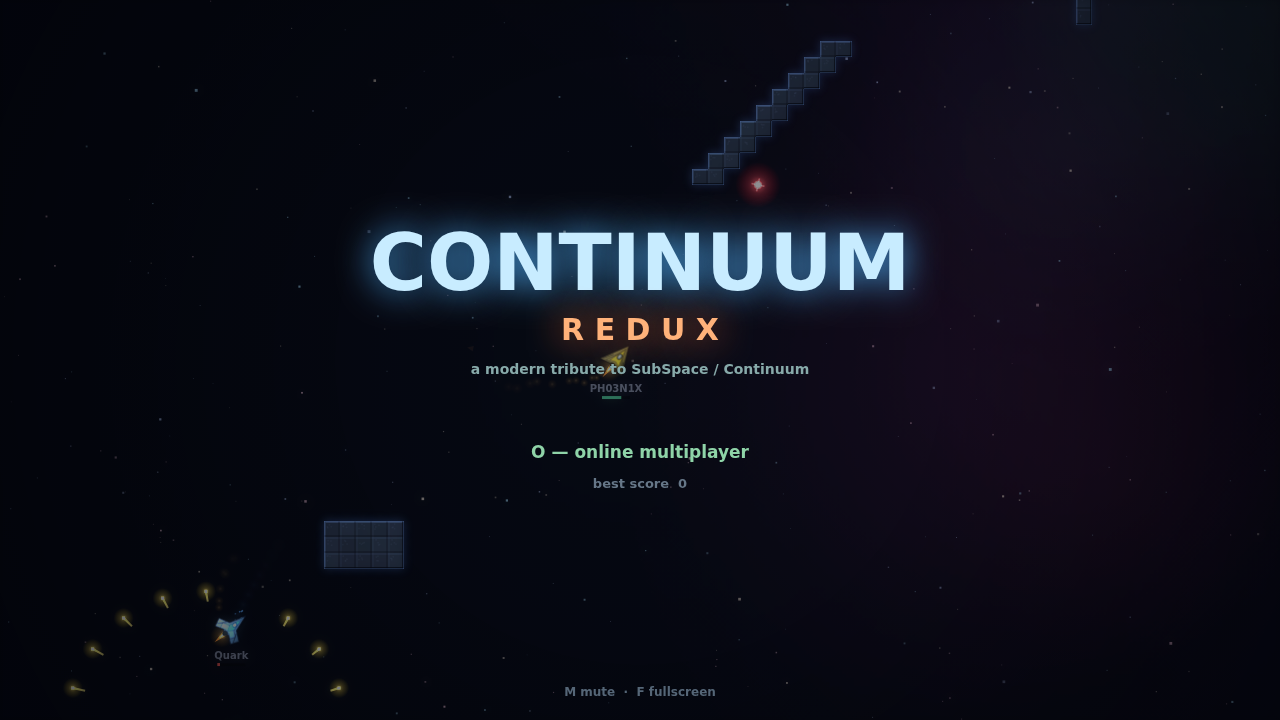
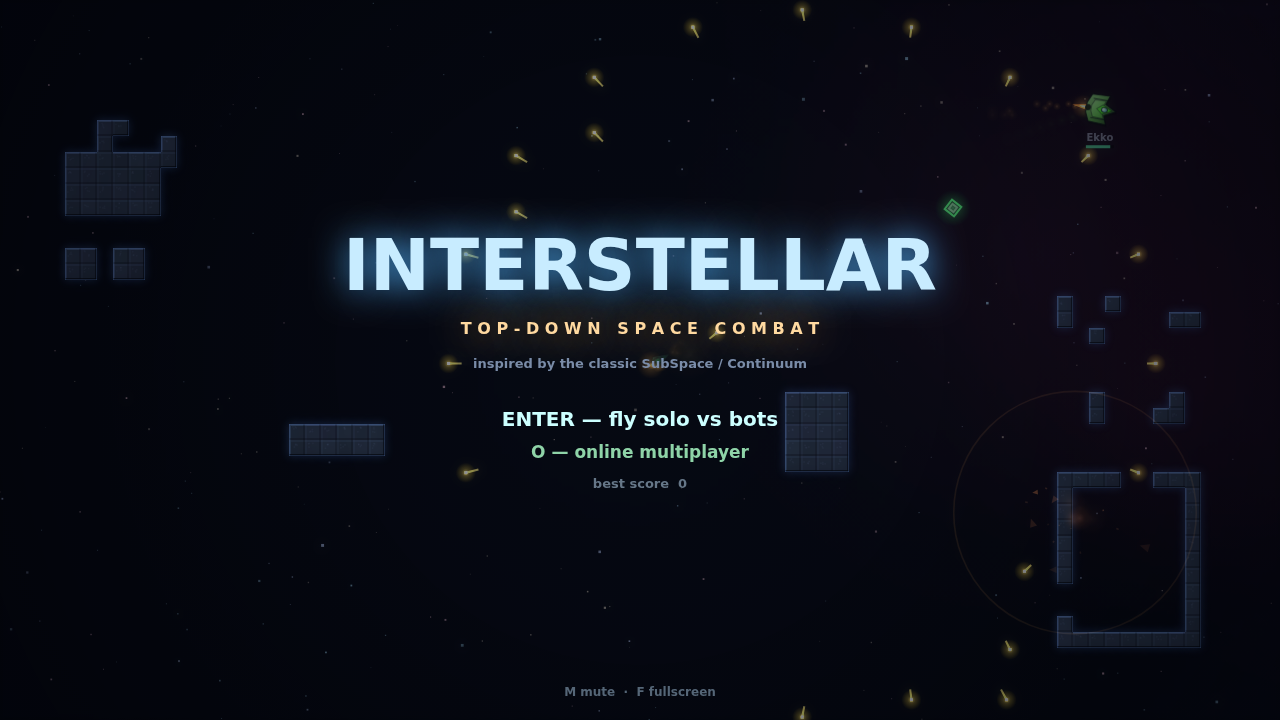
Rename the game to Interstellar
The game is now its own title: Interstellar. SubSpace/Continuum stays
credited as the inspiration on the title screen and in the README, but
the branding, page title, welcome text, server log lines, localStorage
keys, and test hooks all carry the new name. The new-generation ship
class is renamed from REDUX to NOVA to match, since it referenced the
old title.

Claude-Session: https://claude.ai/code/session_01B8hcSvZjcaomtossQcuxbY

diff --git a/client.js b/client.js
@@ -1,5 +1,5 @@
 /* =========================================================================
-   CONTINUUM REDUX — browser client
+   INTERSTELLAR — browser client
    Rendering (neon + bloom), input, menus, audio, and SubSpace-style
    relay netcode. All world simulation lives in sim.js (shared with the
    server); this file owns everything the player sees and hears.
@@ -1198,11 +1198,11 @@
     ctx.save();
     ctx.shadowColor = 'rgba(80,180,255,0.9)';
     ctx.shadowBlur = 34;
-    txt('CONTINUUM', vw / 2, vh / 2 - 70, 78, '#c8ecff', 'center', 800);
-    ctx.shadowColor = 'rgba(255,120,60,0.9)';
-    txt('R E D U X', vw / 2, vh / 2 - 20, 30, '#ffb27a', 'center', 700);
+    txt('INTERSTELLAR', vw / 2, vh / 2 - 70, 72, '#c8ecff', 'center', 800);
+    ctx.shadowColor = 'rgba(255,180,80,0.8)';
+    txt('T O P - D O W N   S P A C E   C O M B A T', vw / 2, vh / 2 - 26, 16, '#ffd9a0', 'center', 700);
     ctx.restore();
-    txt('a modern tribute to SubSpace / Continuum', vw / 2, vh / 2 + 14, 14, '#8aa', 'center');
+    txt('inspired by the classic SubSpace / Continuum', vw / 2, vh / 2 + 8, 13, '#7a8ca8', 'center');
     const blink = Math.sin(G.time * 4) > -0.3;
     if (blink) txt('ENTER — fly solo vs bots', vw / 2, vh / 2 + 66, 20, '#cff', 'center', 700);
     txt('O — online multiplayer', vw / 2, vh / 2 + 98, 17, '#8fd4a8', 'center', 700);
@@ -1249,9 +1249,9 @@
     }
 
     const t = SHIP_TYPES[SHIP_ORDER[G.sel]];
-    const isRedux = t.cls === 'redux';
-    txt(isRedux ? 'REDUX CLASS — NEW GENERATION' : 'CLASSIC HULL', vw / 2, cy + 88, 11,
-      isRedux ? '#fd8' : '#68a', 'center', 700);
+    const isNova = t.cls === 'nova';
+    txt(isNova ? 'NOVA CLASS — NEW GENERATION' : 'CLASSIC HULL', vw / 2, cy + 88, 11,
+      isNova ? '#fd8' : '#68a', 'center', 700);
     txt(t.label.toUpperCase(), vw / 2, cy + 116, 30, 'hsla(' + t.hue + ',90%,68%,1)', 'center', 800);
     txt((G.sel + 1) + ' / ' + n, vw / 2, cy + 136, 12, '#678', 'center');
     txt(t.desc, vw / 2, cy + 160, 14, '#abc', 'center', 500);
@@ -1340,16 +1340,16 @@
 
   // ---------------------------------------------------------------- persistence
   function loadBest() {
-    try { G.best = parseInt(GLOBAL.localStorage.getItem('continuum-redux-best') || '0', 10) || 0; } catch (e) { G.best = 0; }
+    try { G.best = parseInt(GLOBAL.localStorage.getItem('interstellar-best') || '0', 10) || 0; } catch (e) { G.best = 0; }
   }
   function saveBest() {
-    try { GLOBAL.localStorage.setItem('continuum-redux-best', String(G.best)); } catch (e) { }
+    try { GLOBAL.localStorage.setItem('interstellar-best', String(G.best)); } catch (e) { }
   }
   function loadName() {
-    try { return GLOBAL.localStorage.getItem('continuum-redux-name') || ''; } catch (e) { return ''; }
+    try { return GLOBAL.localStorage.getItem('interstellar-name') || ''; } catch (e) { return ''; }
   }
   function saveName(n) {
-    try { GLOBAL.localStorage.setItem('continuum-redux-name', n); } catch (e) { }
+    try { GLOBAL.localStorage.setItem('interstellar-name', n); } catch (e) { }
   }
 
   // ---------------------------------------------------------------- flow
@@ -1363,7 +1363,7 @@
     G.player = s;
     G.state = 'play';
     G.paused = false;
-    say('Welcome to Continuum Redux — good luck, pilot.', '#8df');
+    say('Welcome to Interstellar — good luck, pilot.', '#8df');
     say('Collect greens. Guard your energy. Everything costs it.', '#8df');
     return s;
   }
@@ -1541,7 +1541,7 @@
     GLOBAL.requestAnimationFrame(frame);
   }
 
-  GLOBAL.__continuum = { G, SIM, boot, startSolo, update, render, keys, handleNet, netConnect, STEP };
+  GLOBAL.__interstellar = { G, SIM, boot, startSolo, update, render, keys, handleNet, netConnect, STEP };
 
   if (GLOBAL.document && GLOBAL.document.getElementById) boot();
 })();

diff --git a/sim.js b/sim.js
@@ -1,5 +1,5 @@
 /* =========================================================================
-   CONTINUUM REDUX — shared simulation core
+   INTERSTELLAR — shared simulation core
    Runs identically in the browser (window.SIM) and Node (module.exports).
    No DOM, no audio, no rendering — pure world state + events.
 
@@ -143,10 +143,10 @@
       deco: [[[0.15, 0.38], [-0.4, 0.75]], [[0.15, -0.38], [-0.4, -0.75]]],
       cockpit: [0.3, 0, 0.17, 0.12], engines: [[-0.68, 0]],
     },
-    // ---- REDUX class: the new generation ----
+    // ---- NOVA class: the new generation ----
     vanguard: {
-      label: 'Vanguard', hue: 45, cls: 'redux',
-      desc: 'REDUX gunship. Ships MultiFire and ricochet rounds straight from the factory.',
+      label: 'Vanguard', hue: 45, cls: 'nova',
+      desc: 'Nova-class gunship. Ships MultiFire and ricochet rounds straight from the factory.',
       maxEnergy: 1450, recharge: 110, thrust: 240, maxSpeed: 345, turn: 3.5,
       radius: 11, bounce: 0.6, startMulti: true, startBounce: true,
       gunLevel: 2, gunDelay: 0.4, gunCost: 130, gunSpeed: 640, gunDmgMul: 0.95,
@@ -157,8 +157,8 @@
       cockpit: [0.35, 0, 0.18, 0.11], engines: [[-0.75, 0.18], [-0.75, -0.18]],
     },
     aegis: {
-      label: 'Aegis', hue: 215, cls: 'redux',
-      desc: 'REDUX bastion. Composite plating shrugs off a quarter of all damage.',
+      label: 'Aegis', hue: 215, cls: 'nova',
+      desc: 'Nova-class bastion. Composite plating shrugs off a quarter of all damage.',
       maxEnergy: 1900, recharge: 100, thrust: 190, maxSpeed: 300, turn: 2.8,
       radius: 13, bounce: 0.45, armor: 0.72, repelStart: 2,
       gunLevel: 1, gunDelay: 0.5, gunCost: 120, gunSpeed: 600, gunDmgMul: 0.9,
@@ -169,8 +169,8 @@
       cockpit: [0.2, 0, 0.22, 0.17], engines: [[-0.85, 0.3], [-0.85, -0.3]],
     },
     reaper: {
-      label: 'Reaper', hue: 275, cls: 'redux',
-      desc: 'REDUX leech. Every hit you land feeds stolen energy back to your banks.',
+      label: 'Reaper', hue: 275, cls: 'nova',
+      desc: 'Nova-class leech. Every hit you land feeds stolen energy back to your banks.',
       maxEnergy: 1350, recharge: 85, thrust: 235, maxSpeed: 355, turn: 3.7,
       radius: 11, bounce: 0.6, leech: 0.3,
       gunLevel: 2, gunDelay: 0.5, gunCost: 140, gunSpeed: 650, gunDmgMul: 1.0,
@@ -181,8 +181,8 @@
       cockpit: [0.3, 0, 0.16, 0.11], engines: [[-0.55, 0]],
     },
     phantom: {
-      label: 'Phantom', hue: 320, cls: 'redux',
-      desc: 'REDUX blink-fighter. R warps you 240m forward — straight through walls.',
+      label: 'Phantom', hue: 320, cls: 'nova',
+      desc: 'Nova-class blink-fighter. R warps you 240m forward — straight through walls.',
       maxEnergy: 1200, recharge: 125, thrust: 260, maxSpeed: 390, turn: 4.4,
       radius: 10, bounce: 0.65, blink: true,
       gunLevel: 1, gunDelay: 0.26, gunCost: 70, gunSpeed: 660, gunDmgMul: 0.7,

diff --git a/dev/smoke.js b/dev/smoke.js
@@ -1,4 +1,4 @@
-/* Headless smoke test for Continuum Redux.
+/* Headless smoke test for Interstellar.
    1) Runs the shared sim (sim.js) directly under Node: 90s of bot combat.
    2) Runs the real client (client.js) against a stubbed DOM/canvas.
    3) Boots the real server (server.js) and drives two WebSocket clients
@@ -33,12 +33,12 @@ const SIM = require(path.join(ROOT, 'sim.js'));
 
   SIM.addBots(W, 10);
   assert(W.ships.length === 10, 'ten bots spawned');
-  assert(Object.keys(SIM.SHIP_TYPES).length === 12, '8 classic + 4 REDUX hulls exist');
+  assert(Object.keys(SIM.SHIP_TYPES).length === 12, '8 classic + 4 NOVA hulls exist');
   for (const key of ['warbird', 'javelin', 'spider', 'leviathan', 'terrier', 'weasel', 'lancaster', 'shark',
     'vanguard', 'aegis', 'reaper', 'phantom'])
     assert(SIM.SHIP_TYPES[key], 'ship type ' + key + ' exists');
 
-  // REDUX mechanics
+  // NOVA mechanics
   {
     const Wm = SIM.createWorld({ seed: 7, spawnPrizes: false });
     const van = SIM.makeShip(Wm, 'vanguard', 'local', 'Van', 45);
@@ -157,7 +157,7 @@ const SIM = require(path.join(ROOT, 'sim.js'));
     g, g, g.document, g.localStorage, g.requestAnimationFrame,
     g.addEventListener, g.innerWidth, g.innerHeight, g.devicePixelRatio, g.setInterval, g.location);
 
-  const api = g.__continuum;
+  const api = g.__interstellar;
   assert(api, 'client exported hooks');
   const { G, startSolo, update, render, STEP } = api;
   assert(G.state === 'title', 'client boots to title');
@@ -224,7 +224,7 @@ const SIM = require(path.join(ROOT, 'sim.js'));
     const html = await fetch('http://localhost:' + PORT + '/').then(r => r.text());
     assert(html.includes('client.js'), 'server serves index.html');
     const simSrc = await fetch('http://localhost:' + PORT + '/sim.js').then(r => r.text());
-    assert(simSrc.includes('CONTINUUM REDUX'), 'server serves sim.js');
+    assert(simSrc.includes('INTERSTELLAR'), 'server serves sim.js');
 
     // two real WebSocket clients (Node's built-in WebSocket)
     function client(name, ship) {

diff --git a/server.js b/server.js
@@ -1,6 +1,6 @@
 #!/usr/bin/env node
 /* =========================================================================
-   CONTINUUM REDUX — zone server
+   INTERSTELLAR — zone server
    Zero-dependency Node server: static file host + hand-rolled RFC 6455
    WebSocket endpoint on ONE port, running the shared sim for the bots.
 
@@ -373,6 +373,6 @@ function log(m) {
 }
 
 httpServer.listen(PORT, () => {
-  log('Continuum Redux zone server on http://localhost:' + PORT + '  (seed ' + SEED + ', ' + BOTS + ' bots)');
+  log('Interstellar zone server on http://localhost:' + PORT + '  (seed ' + SEED + ', ' + BOTS + ' bots)');
   log('Players: open the URL and press O for online multiplayer.');
 });

diff --git a/index.html b/index.html
@@ -3,7 +3,7 @@
 <head>
 <meta charset="utf-8">
 <meta name="viewport" content="width=device-width,initial-scale=1,user-scalable=no">
-<title>Continuum Redux — a modern SubSpace tribute</title>
+<title>Interstellar — top-down space combat</title>
 <style>
   html,body{margin:0;padding:0;height:100%;background:#04060d;overflow:hidden}
   canvas{display:block;width:100vw;height:100vh;cursor:crosshair}

diff --git a/README.md b/README.md
@@ -1,9 +1,11 @@
-# Continuum Redux
+# Interstellar
 
-A modern, from-scratch tribute to **SubSpace / Continuum** — the classic top-down
-inertial space combat game — rebuilt for the browser with neon rendering, bloom,
-particle effects, synthesized audio, the **full 8-ship roster**, and **real
-online multiplayer** via a zero-dependency Node server.
+**Interstellar** is a modern, from-scratch top-down space combat game for the
+browser — inertial flight, energy warfare, and zone chat, inspired by the
+classic **SubSpace / Continuum** but very much its own game: sprite-shaded
+ships with bloom and particles, synthesized audio, a **12-ship hangar**
+(8 classic-style hulls plus the new NOVA class), and **real online
+multiplayer** via a zero-dependency Node server.
 
 ![Combat](assets/combat.png)
 
@@ -29,7 +31,7 @@ events, kills, scores, and chat (**Enter** to talk) at 15–20 Hz with
 dead-reckoning interpolation for remote ships. Both sides run the same
 simulation code (`sim.js`) on the same map seed.
 
-## The hangar — 8 classic hulls + the new REDUX class
+## The hangar — 8 classic hulls + the new NOVA class
 
 ![Ship select](assets/select.png)
 
@@ -47,7 +49,7 @@ simulation code (`sim.js`) on the same map seed.
 Because this is the next iteration of the zone, a new generation of hulls
 joins the classic eight — each with a mechanic the originals never had:
 
-| REDUX ship | New mechanic |
+| NOVA ship | New mechanic |
 | --- | --- |
 | **Vanguard** | Ships factory MultiFire + ricochet rounds from spawn |
 | **Aegis** | Composite plating absorbs 28% of all incoming damage |
